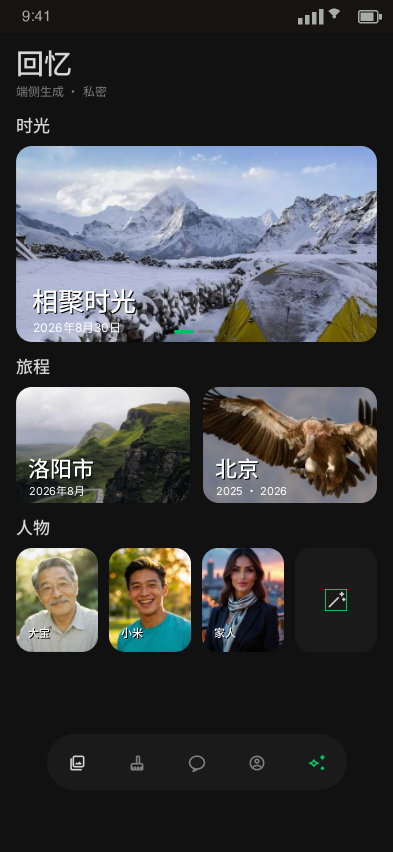
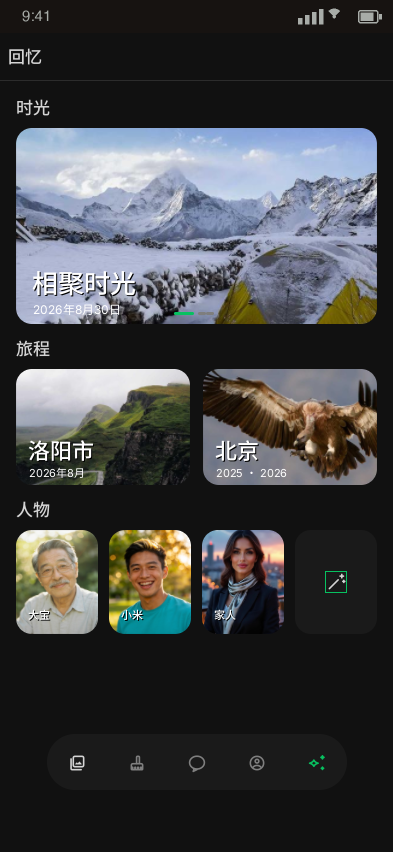
feat(ui): 回忆页顶栏统一标准 AppTopBar 左对齐,副标「端侧生成·私密」移除
- MemoryScreen: 大标题(28sp)+副标双行头 → 标准 AppTopBar(17sp 左对齐+hairline),与相册/设置/人物各页同款(2026-09-26 用户反馈顶栏不一致+副标无存在意义)
- memory_privacy_note 字符串五语言全量删除(仅此一处引用,i18n 同步)
- 画布 memory/feed 同步:top_bar 改 horizontal h48 pad8/8+标题$2:114 LEFT 绝对定位 y13(引擎对 counterAxisAlign 静默空转,走 gallery 组件同款标题绝对定位套路)+补 nav_hairline+删 page_sub;refs memory-feed.png 重导
- 真机验证:回忆标题 x26-136/y181-255 与相册页标题几何逐像素一致,副标零残留;编译/ktlint 绿

diff --git a/androidApp/src/main/java/com/mamba/picme/features/gallery/memories/MemoryScreen.kt b/androidApp/src/main/java/com/mamba/picme/features/gallery/memories/MemoryScreen.kt
@@ -13,7 +13,6 @@ import androidx.compose.foundation.layout.fillMaxWidth
 import androidx.compose.foundation.layout.height
 import androidx.compose.foundation.layout.navigationBarsPadding
 import androidx.compose.foundation.layout.padding
-import androidx.compose.foundation.layout.statusBarsPadding
 import androidx.compose.foundation.layout.width
 import androidx.compose.foundation.lazy.LazyColumn
 import androidx.compose.foundation.lazy.LazyRow
@@ -48,6 +47,7 @@ import coil.compose.AsyncImage
 import coil.request.ImageRequest
 import com.mamba.picme.R
 import com.mamba.picme.core.designsystem.MemoryPageTokens
+import com.mamba.picme.features.common.topbar.AppTopBar
 import com.mamba.picme.domain.memories.Memory
 import com.mamba.picme.domain.memories.MemoryType
 import com.mamba.picme.features.main.MAIN_PAGE_MEMORY
@@ -78,9 +78,9 @@ private fun buildSections(memories: List<Memory>): List<MemorySection> = listOf(
 ).filter { section -> section.memories.isNotEmpty() }
 
 /**
- * Memory 独立 Pager 页（2026-09-06，对标小米相册）：顶栏（标题「回忆」+ 副标「端侧生成 · 私密」）→
- * 三分区大卡 feed（时光/旅程/人物，空分区不占位）→ 整页空态；长按大卡弹隐藏确认；
- * 底部悬浮底 bar（共享 [MainFloatingBottomBar]，回忆项高亮；2026-09-06 导航统一五项与 Pager 页序 1:1）。
+ * Memory 独立 Pager 页（2026-09-06，对标小米相册）：标准 [AppTopBar]（标题「回忆」左对齐，2026-09-26
+ * 与各页统一，大标题+副标形态废弃）→ 三分区大卡 feed（时光/旅程/人物，空分区不占位）→ 整页空态；
+ * 长按大卡弹隐藏确认；底部悬浮底 bar（共享 [MainFloatingBottomBar]，回忆项高亮；2026-09-06 导航统一五项与 Pager 页序 1:1）。
  */
 @Suppress("LongMethod") // 待重构：顶栏/分区 feed/底 bar/隐藏弹窗可抽子组合函数
 @Composable
@@ -95,23 +95,11 @@ fun MemoryScreen(
 
     Box(modifier = Modifier.fillMaxSize().background(MaterialTheme.colorScheme.surface)) {
         Column(modifier = Modifier.fillMaxSize()) {
-            // 顶栏：大标题 + 副标（对齐相册页「相册」标题风格）
-            Column(
-                modifier = Modifier
-                    .statusBarsPadding()
-                    .padding(horizontal = 16.dp, vertical = 12.dp),
-            ) {
-                Text(
-                    text = stringResource(R.string.memory_title),
-                    style = MaterialTheme.typography.headlineMedium,
-                    fontWeight = FontWeight.SemiBold,
-                )
-                Text(
-                    text = stringResource(R.string.memory_privacy_note),
-                    style = MaterialTheme.typography.labelSmall,
-                    color = MaterialTheme.colorScheme.onSurfaceVariant,
-                )
-            }
+            // 顶栏：标准 AppTopBar 左对齐标题（2026-09-26 与各页统一；大标题+副标形态废弃，
+            // 副标「端侧生成 · 私密」无存在意义移除）
+            AppTopBar(
+                title = { Text(stringResource(R.string.memory_title)) }
+            )
             val sections = remember(memories) { buildSections(memories) }
             if (sections.isEmpty()) {
                 Box(modifier = Modifier.fillMaxSize(), contentAlignment = Alignment.Center) {
